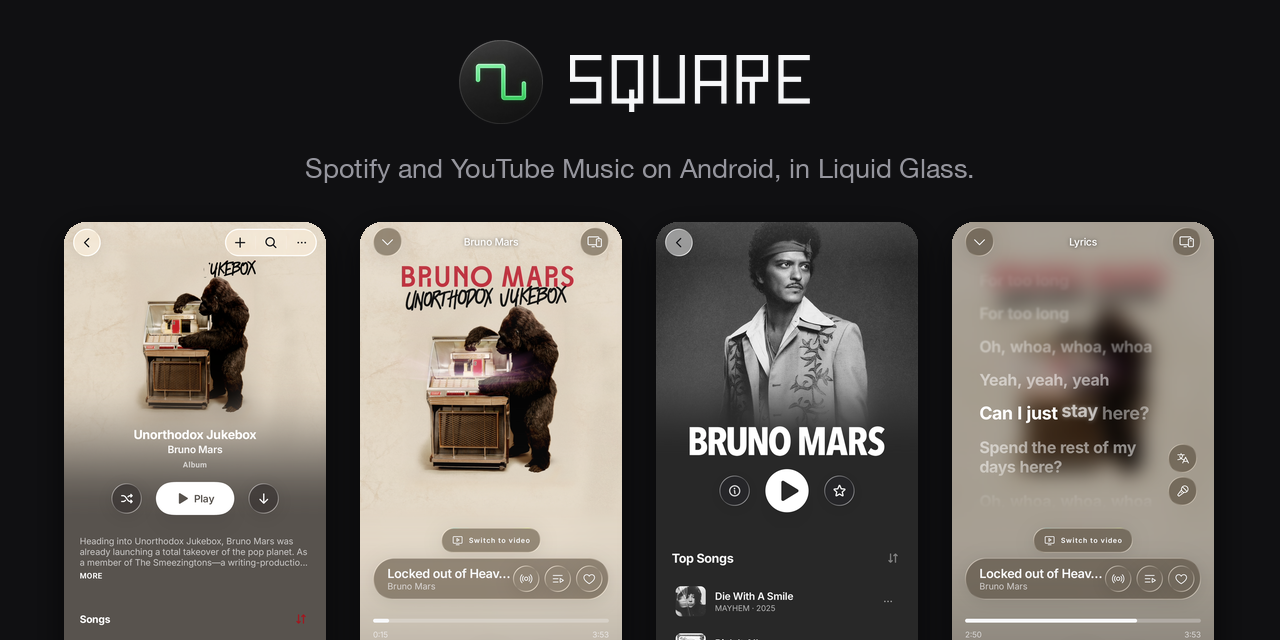
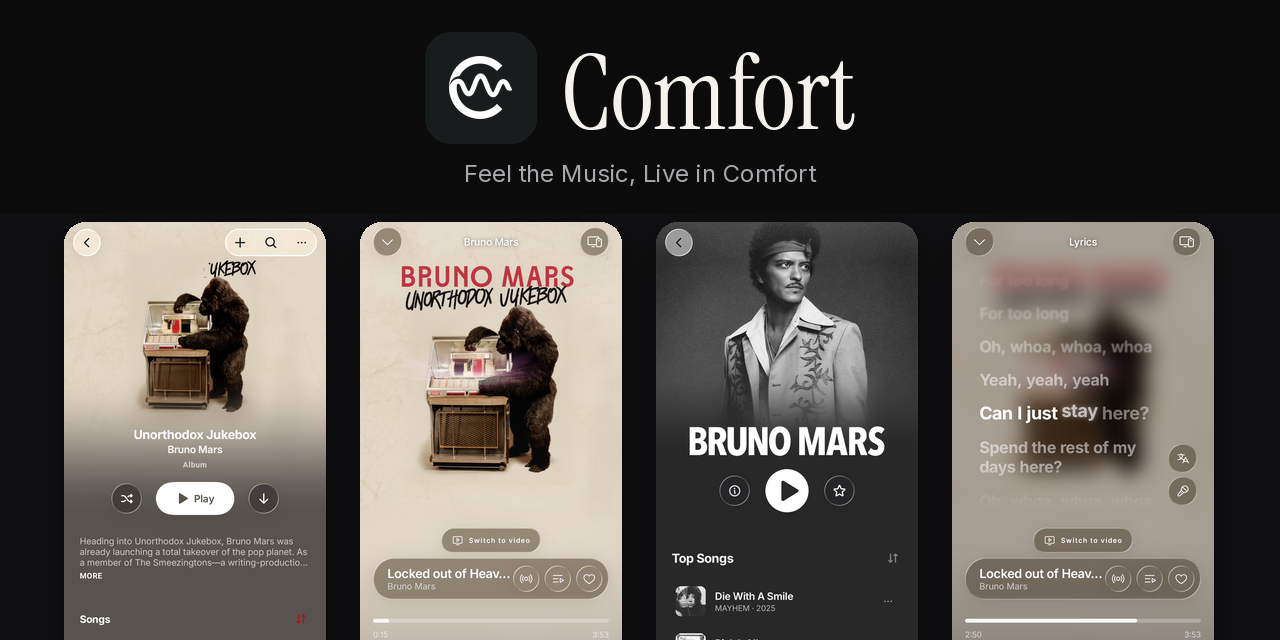
Brand the repository as Comfort and drop the old developer credit
The README, store listing, F-Droid drafts and website still read as the
upstream Square app: its developer's badges, repo links and donation page,
and its logo in the header, the social preview and the listing icon. That
is not this project.

Everything user-facing now says Comfort and links here, the artwork is the
Comfort logo the app already ships, and the app's pathfinder fetch and
lyrics user agent point at this repository instead of the old one. The
licence section keeps the factual GPL lineage to the open-source Square
player; the package id stays dev.lelonio.square because the released APK,
its JNI symbols and its updater are built around it.

Changed region(s): [[0.3438, 0.0625, 0.6875, 0.2188], [0.2188, 0.25, 0.75, 0.2812]]

diff --git a/website/components/Footer.tsx b/website/components/Footer.tsx
@@ -67,16 +67,6 @@ export function Footer() {
             </li>
             <li>
               <a
-                href={site.upstream}
-                target="_blank"
-                rel="noreferrer"
-                className="text-sm text-silver transition hover:text-pearl"
-              >
-                Upstream project
-              </a>
-            </li>
-            <li>
-              <a
                 href={site.issues}
                 target="_blank"
                 rel="noreferrer"
@@ -96,8 +86,8 @@ export function Footer() {
             {site.license} license.
           </p>
           <p className="max-w-xl leading-relaxed">
-            Comfort is a modified fork of Square, originally created by Lelonio and licensed under{" "}
-            {site.license}. Original source and attribution are preserved in the{" "}
+            Comfort is a modified fork of the open-source Square player, licensed under{" "}
+            {site.license}. The inherited source and its credits are kept in the{" "}
             <a href={site.repo} target="_blank" rel="noreferrer" className="text-champagne/90 underline-offset-4 hover:underline">
               public repository
             </a>

diff --git a/website/app/terms/page.tsx b/website/app/terms/page.tsx
@@ -81,9 +81,9 @@ export default function TermsPage() {
           <section>
             <h2 className="text-base font-medium text-pearl">Attribution and affiliation</h2>
             <p className="mt-3">
-              Comfort is a modified fork of Square, originally created by Lelonio under the{" "}
-              {site.license} license; the original project and its authors are credited in the
-              repository. Comfort is not affiliated with, endorsed by or sponsored by Google,
+              Comfort is a modified fork of the open-source Square player, licensed under the{" "}
+              {site.license} license; the inherited source and its third-party credits are kept in
+              the repository. Comfort is not affiliated with, endorsed by or sponsored by Google,
               YouTube, Spotify or any music service, and all trademarks belong to their respective
               owners.
             </p>

diff --git a/app/src/main/java/dev/lelonio/square/data/PathfinderKeys.kt b/app/src/main/java/dev/lelonio/square/data/PathfinderKeys.kt
@@ -158,7 +158,7 @@ class PathfinderKeys(context: Context) {
         // notice and publish the new ones are upstream. The updater's [REPO]
         // points at this fork, which is not where that maintenance happens.
         const val URL =
-            "https://raw.githubusercontent.com/Lelonio/Square/master/pathfinder.json"
+            "https://raw.githubusercontent.com/akhilpal312-debug/Music-/main/pathfinder.json"
 
         /** What was true when this version was built; see the note above. */
         const val DEFAULT_HOME =

diff --git a/app/src/main/java/dev/lelonio/square/backend/lyrics/LrcLib.kt b/app/src/main/java/dev/lelonio/square/backend/lyrics/LrcLib.kt
@@ -158,5 +158,5 @@ object LrcLib {
 
     private val LRC_LINE = Regex("\\[(\\d{1,2}):(\\d{2})[.:](\\d{2,3})\\](.*)")
 
-    private const val USER_AGENT = "Square (https://github.com/lelonio/square)"
+    private const val USER_AGENT = "Comfort (https://github.com/akhilpal312-debug/Music-)"
 }

diff --git a/website/lib/site.ts b/website/lib/site.ts
@@ -13,7 +13,6 @@ export const site = {
   },
   repo: "https://github.com/akhilpal312-debug/Music-",
   issues: "https://github.com/akhilpal312-debug/Music-/issues",
-  upstream: "https://github.com/Lelonio/Square",
   license: "GPL-3.0",
   apk: {
     versionName: "0.0.1",

diff --git a/scripts/tests/test_telegram_release.py b/scripts/tests/test_telegram_release.py
@@ -13,10 +13,10 @@ spec.loader.exec_module(module)
 
 def release():
     return {'tag_name': 'v2.4.5', 'name': '2.4.5', 'body': '## Fixed\nConnect and local files.',
-            'html_url': 'https://github.com/Lelonio/Square/releases/tag/v2.4.5',
+            'html_url': 'https://github.com/akhilpal312-debug/Music-/releases/tag/v2.4.5',
             'draft': False, 'published_at': '2026-10-07T10:42:26Z',
             'assets': [{'name': f'square-2.4.5-{abi}.apk', 'state': 'uploaded', 'size': 20,
-                        'browser_download_url': f'https://github.com/Lelonio/Square/releases/download/v2.4.5/square-2.4.5-{abi}.apk'} for abi in module.ABIS]}
+                        'browser_download_url': f'https://github.com/akhilpal312-debug/Music-/releases/download/v2.4.5/square-2.4.5-{abi}.apk'} for abi in module.ABIS]}
 
 
 class ReleaseTests(unittest.TestCase):
@@ -25,10 +25,10 @@ class ReleaseTests(unittest.TestCase):
         value['body'] = '🧪 test\n' * 3000
         chunks = module.messages(value)
         self.assertTrue(all(len(c['text'].encode('utf-16-le')) // 2 <= 3500 for c in chunks))
-        self.assertEqual(''.join(c['text'] for c in chunks), f"Square 2.4.5\n\nView release on GitHub\n\n{value['body']}")
+        self.assertEqual(''.join(c['text'] for c in chunks), f"Comfort 2.4.5\n\nView release on GitHub\n\n{value['body']}")
 
     def test_markdown_formats_headings_lists_links_and_code(self):
-        text, entities = module.formatted_markdown('## Fixed\n- **Playback** and `track.apk`\n[Release](https://github.com/Lelonio/Square)\n```sh\nadb shell cmd\n```\n')
+        text, entities = module.formatted_markdown('## Fixed\n- **Playback** and `track.apk`\n[Release](https://github.com/akhilpal312-debug/Music-)\n```sh\nadb shell cmd\n```\n')
         self.assertEqual(text, 'Fixed\n• Playback and track.apk\nRelease\nadb shell cmd\n')
         self.assertEqual({e['type'] for e in entities}, {'bold', 'code', 'text_link', 'pre'})
         for entity in entities:

diff --git a/scripts/telegram-release.py b/scripts/telegram-release.py
@@ -1,4 +1,4 @@
-"""Send a published Square release to its announcement channel and forum topic."""
+"""Send a published Comfort release to its announcement channel and forum topic."""
 import json
 import os
 import re
@@ -89,7 +89,7 @@ def formatted_markdown(markdown):
 def messages(release):
     title = release.get('name') or release['tag_name']
     text, entities = formatted_markdown(
-        f"# Square {title}\n\n[View release on GitHub]({release['html_url']})\n\n"
+        f"# Comfort {title}\n\n[View release on GitHub]({release['html_url']})\n\n"
         + (release.get('body') or 'Release notes are available on GitHub.'))
     chunks = []
     start_units = 0

diff --git a/README.md b/README.md
@@ -1,8 +1,8 @@
 <p align="center">
-  <img src="docs/square.png" width="112" alt="">
+  <img src="docs/comfort.png" width="112" alt="">
 </p>
 
-<h1 align="center">Square</h1
+<h1 align="center">Comfort</h1>
 
 <p align="center">
   An unofficial Android music client for Spotify Premium and YouTube Music,
@@ -10,10 +10,10 @@
 </p>
 
 <p align="center">
-  <a href="https://github.com/Lelonio/Square/releases/latest"><img src="https://img.shields.io/github/v/release/Lelonio/Square?label=release" alt="Latest release"></a>
-  <a href="https://github.com/Lelonio/Square/releases"><img src="https://img.shields.io/github/downloads/Lelonio/Square/total" alt="Downloads"></a>
+  <a href="https://github.com/akhilpal312-debug/Music-/releases/latest"><img src="https://img.shields.io/github/v/release/akhilpal312-debug/Music-?label=release" alt="Latest release"></a>
+  <a href="https://github.com/akhilpal312-debug/Music-/releases"><img src="https://img.shields.io/github/downloads/akhilpal312-debug/Music-/total" alt="Downloads"></a>
   <img src="https://img.shields.io/badge/Android-8.0%2B-3DDC84" alt="Android 8.0 or later">
-  <a href="LICENSE"><img src="https://img.shields.io/github/license/Lelonio/Square" alt="Licence"></a>
+  <a href="LICENSE"><img src="https://img.shields.io/github/license/akhilpal312-debug/Music-?label=licence" alt="Licence"></a>
 </p>
 
 <p align="center">
@@ -21,7 +21,6 @@
   <a href="#features"><b>Features</b></a> ·
   <a href="#first-launch"><b>First launch</b></a> ·
   <a href="#faq"><b>FAQ</b></a> ·
-  <a href="https://t.me/+-XDmbFwz7uBkMjc0"><b>Telegram community</b></a> ·
   <a href="docs/DEVELOPMENT.md"><b>Building</b></a>
 </p>
 
@@ -68,7 +67,7 @@
 ### Library and discovery
 
 - Playlists, albums, artists and liked songs. Create, rename and delete
-  playlists, add and remove songs, pin favourites, follow artists.
+  playlists, add songs, pin favourites, follow artists.
 - A home page of shelves made for you, a **New** tab with releases and charts,
   and a **Radio** tab of stations, moods and genres.
 - Search, with your recent searches kept (swipe one away to remove it).
@@ -83,14 +82,14 @@
 
 ### Spotify extras
 
-- A **Connect** device: send playback to Square from any other device, and
+- A **Connect** device: send playback to Comfort from any other device, and
   control your other devices from it.
 - What your friends are listening to.
 - Similar playlists at the end of each playlist.
 - Song credits: performers, writers and producers.
 - What you play is saved to your listening history, as it would be anywhere
   else you listen.
-- Spotify links can open straight in Square.
+- Spotify links can open straight in Comfort.
 
 ### Android Auto
 
@@ -108,14 +107,10 @@
 
 ## Download
 
-[![Get it on Orion Store](https://raw.githubusercontent.com/RookieEnough/Orion-Store/refs/heads/main/assets/orion-badge.png)](https://rookieenough.github.io/Orion-Data/redirect.html?id=square)
+Download the APK from the [latest release](https://github.com/akhilpal312-debug/Music-/releases/latest)
+and install it. Comfort needs Android 8.0 or later.
 
-Or
-
-Download the APK from the [latest release](https://github.com/Lelonio/Square/releases/latest)
-and install it. Square needs Android 8.0 or later.
-
-Square updates itself: it checks for new releases and installs them from the
+Comfort updates itself: it checks for new releases and installs them from the
 settings. It is not on the Play Store and cannot be; see the
 [disclaimer](#disclaimer).
 
@@ -136,7 +131,7 @@ Run before the app has been opened, the command finds nothing to compile.
 
 ## First launch
 
-Square first asks where the music should come from. You can change it later in
+Comfort first asks where the music should come from. You can change it later in
 the settings.
 
 - **YouTube Music** plays straight away. Signing in with Google, from the
@@ -149,9 +144,9 @@ the settings.
 
 ## FAQ
 
-**Square does not appear in Android Auto.**
+**Comfort does not appear in Android Auto.**
 Android Auto only lists apps installed from the Play Store. Turn on "Unknown
-sources" in Android Auto's developer settings and Square shows up.
+sources" in Android Auto's developer settings and Comfort shows up.
 
 **Can I use a free Spotify account?**
 No. A free account can sign in, but Spotify only streams to a client like this
@@ -163,27 +158,12 @@ latest release, which is usually where the fix is.
 
 ## Disclaimer
 
-Square is not affiliated with, endorsed by or connected to Spotify or Google.
-Both sources are used on terms they do not offer: Square re-implements
+Comfort is not affiliated with, endorsed by or connected to Spotify or Google.
+Both sources are used on terms they do not offer: Comfort re-implements
 Spotify's protocol, which Spotify's Terms of Service forbid, and reads YouTube
 Music through the private endpoints its own web client uses. It cannot be
 published on the Play Store, and you use it at your own risk. There is no
 warranty of any kind; see the licence.
-
-## Help and feedback
-
-- **Telegram community**: [join Square | Community](https://t.me/+-XDmbFwz7uBkMjc0) for questions, feedback, bug reports and feature requests.
-- **Release announcements**: [Square | Official](https://t.me/SquareAppOfficial) automatically shares new APKs and release notes from GitHub.
-- **Questions** (how something works, how to set it up): [Discussions, Q&A](https://github.com/Lelonio/Square/discussions/categories/q-a)
-- **Ideas and requests**: [Discussions, Ideas](https://github.com/Lelonio/Square/discussions/categories/ideas)
-- **Something broken**: [open an issue](https://github.com/Lelonio/Square/issues/new/choose). If the app closed or froze, attach a report from Settings → About → Save a report.
-
-The same two links are in the app, under Settings → About.
-
-## Support
-
-Square is free and has no ads. If it is useful to you, you can support its
-development on [Ko-fi](https://ko-fi.com/lelonio).
 
 ## Credits
 
@@ -195,7 +175,7 @@ development on [Ko-fi](https://ko-fi.com/lelonio).
 | [NewPipeExtractor](https://github.com/TeamNewPipe/NewPipeExtractor) | GPL-3.0 | Anonymous YouTube Music search and stream URLs. |
 | [lossless.wtf](https://lossless.wtf) | n/a | Synced lyrics timed to the word, asked first on both sources. |
 | [LrcLib](https://lrclib.net) | n/a | Synced lyrics for the YouTube Music source, over its open API. |
-| [Spicy Lyrics](https://github.com/Spikerko/spicy-lyrics) | AGPL-3.0 | The lyrics animation, ported to Compose by [@donutnotnut](https://github.com/donutnotnut) in [#50](https://github.com/Lelonio/Square/discussions/50). |
+| [Spicy Lyrics](https://github.com/Spikerko/spicy-lyrics) | AGPL-3.0 | The lyrics animation, ported to Compose. |
 | [Bungee](https://github.com/kupix/bungee) | MPL-2.0 | Time stretching, fetched at build time. |
 | [AndroidLiquidGlass](https://github.com/Kyant0/AndroidLiquidGlass) | Apache-2.0 | The glass material; the catalog components are copied with their notice. |
 | [Phosphor Icons](https://phosphoricons.com) | MIT | Every icon in the app. |
@@ -212,17 +192,11 @@ in [docs/DEVELOPMENT.md](docs/DEVELOPMENT.md).
 
 GPL-3.0-or-later. See [LICENSE](LICENSE).
 
+Comfort is a modified fork of the open-source Square player, which is
+GPL-3.0-or-later; the inherited source is kept under that licence and its
+third-party credits are listed above.
+
 The lyrics view,
 [`LyricsView.kt`](app/src/main/java/dev/lelonio/square/ui/player/LyricsView.kt),
 is ported from Spicy Lyrics and stays under AGPL-3.0, combined with the rest as
 section 13 of both licences allows.
-
-## Star History
-
-<a href="https://www.star-history.com/?repos=lelonio%2Fsquare&type=date&legend=top-left">
- <picture>
-   <source media="(prefers-color-scheme: dark)" srcset="https://api.star-history.com/chart?repos=lelonio/square&type=date&theme=dark&legend=top-left" />
-   <source media="(prefers-color-scheme: light)" srcset="https://api.star-history.com/chart?repos=lelonio/square&type=date&legend=top-left" />
-   <img alt="Star History Chart" src="https://api.star-history.com/chart?repos=lelonio/square&type=date&legend=top-left" />
- </picture>
-</a>

diff --git a/docs/FDROID-RFP.md b/docs/FDROID-RFP.md
@@ -1,16 +1,14 @@
-# Square — request for packaging
+# Comfort — request for packaging
 
 - Application ID: `dev.lelonio.square`
-- Source: https://github.com/Lelonio/Square
-- Releases: https://github.com/Lelonio/Square/releases
-- Issue tracker: https://github.com/Lelonio/Square/issues
+- Source: https://github.com/akhilpal312-debug/Music-
+- Releases: https://github.com/akhilpal312-debug/Music-/releases
+- Issue tracker: https://github.com/akhilpal312-debug/Music-/issues
 - License: GPL-3.0-or-later, with the lyrics view under AGPL-3.0 as documented
-  in the upstream README. Please review the combined-work licensing.
-- Donation: https://ko-fi.com/lelonio
-- Current release: 2.4.5 (versionCode 46)
+  in the repository README. Please review the combined-work licensing.
+- Current release: 0.0.1 (versionCode 70)
 
-I am the upstream author and would like Square included in F-Droid.
-Square is an Android music client for Spotify Premium and YouTube Music with
+Comfort is an Android music client for Spotify Premium and YouTube Music with
 Liquid Glass UI, synced lyrics, Spotify Connect, local files, audio effects
 and a sleep timer. It does not require the official Spotify application for
 native playback. Android 8.0 or later is required.
@@ -41,7 +39,7 @@ toolchain must be pinned and the Maven/JitPack dependency tree audited.
 The project also has a GitHub updater whose behavior and signing compatibility
 need review for an F-Droid build.
 
-Fastlane English listing metadata has been prepared upstream. Existing app
+Fastlane English listing metadata has been prepared. Existing app
 screenshots contain third-party album artwork; they should be omitted from
 the listing unless redistribution rights are confirmed or replaced with
 cleared demonstration artwork.

diff --git a/docs/FDROID.md b/docs/FDROID.md
@@ -1,7 +1,7 @@
 # F-Droid submission preparation
 
-Status: upstream listing metadata published; request for packaging submitted:
-https://gitlab.com/fdroid/rfp/-/work_items/4524
+Status: listing metadata prepared; request for packaging draft in
+`docs/FDROID-RFP.md`. Not submitted for this fork.
 Inclusion and the buildserver recipe are not yet validated. No playback
 feature has been removed.
 
@@ -13,8 +13,8 @@ reproducibility check. Docker and fdroidserver are not installed on this host.
 ## Listing
 
 English listing assets are in `fastlane/metadata/android/en-US`. The current
-release is 2.4.5, versionCode 46. Screenshots and icon are copied from the
-existing documentation. Donation URL: https://ko-fi.com/lelonio.
+release is 0.0.1, versionCode 70. Screenshots and icon are copied from the
+existing documentation.
 
 ## Review questions
 

diff --git a/website/README.md b/website/README.md
@@ -41,6 +41,6 @@ npm run build   # production build
 
 ## Attribution
 
-Comfort is a GPL-3.0 fork of [Square](https://github.com/Lelonio/Square) by Lelonio.
-The footer and legal pages keep that attribution; the site does not claim the
-inherited source was written by this project.
+Comfort is a GPL-3.0 fork of the open-source Square player. The footer and legal
+pages state that lineage; the site does not claim the inherited source was
+written by this project.
